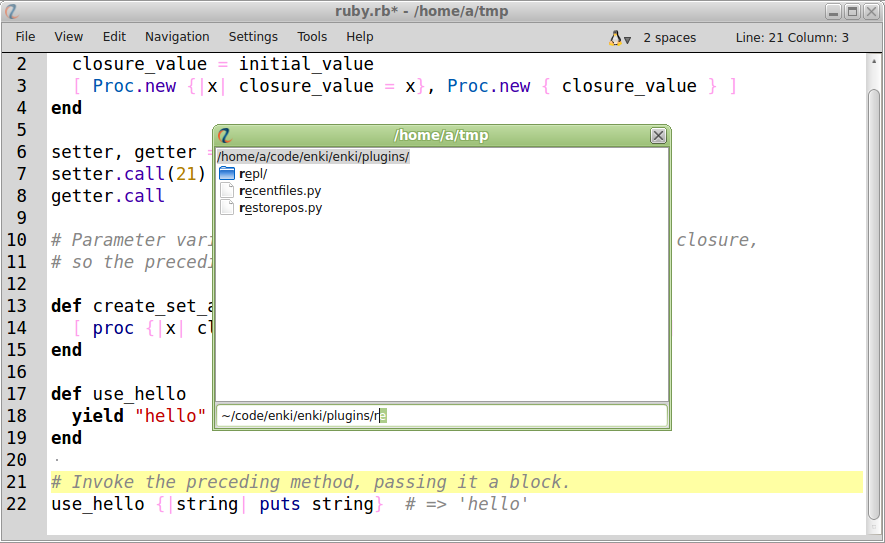
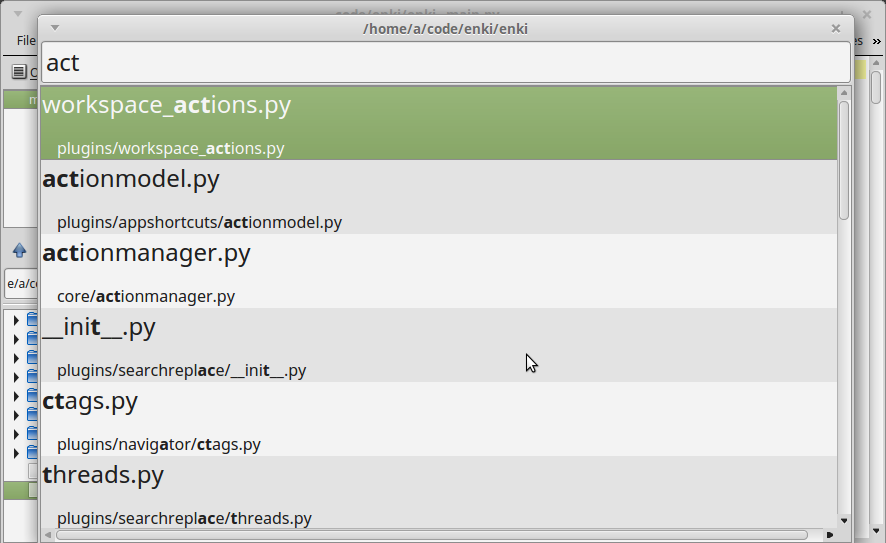
Fuzzy open

diff --git a/index.md b/index.md
@@ -136,9 +136,9 @@ baseurl: .
 
     <div class="screenshot-row">
         <div class="screenshot">
-            <a href="screenshots/locator.png" rel="lightbox[screenshots]" title="File open dialog with Bash-like tab completion">
+            <a href="screenshots/locator.png" rel="lightbox[screenshots]" title="Fuzzy file-matching and bash-like path completion">
                 <img src="screenshots/preview/locator.png" class="fancy-border" /></a><br />
-            File open dialog with bash-like Tab completion
+            Fuzzy file-matching and bash-like path completion
         </div>
         <div class="screenshot">
             <a href="screenshots/repl.png" rel="lightbox[screenshots]" title="REPL for Python, SML, Scheme">
@@ -149,7 +149,7 @@ baseurl: .
 
     <div class="screenshot-row">
         <div class="screenshot">
-            <a href="screenshots/pylint.png" rel="lightbox[screenshots]" title="Pylint support">
+            <a href="screenshots/pylint.png" rel="lightbox[screenshots]" title="Flake8 support">
                 <img src="screenshots/preview/pylint.png" class="fancy-border" /></a><br />
             Pylint support
         </div>

diff --git a/_posts/2015-12-02-Fuzzy_open.md b/_posts/2015-12-02-Fuzzy_open.md
@@ -1,0 +1,9 @@
+---
+layout: post
+title: Fuzzy open
+baseurl: ../../../
+---
+
+Now Enki suports one more quick way to open file! Try to press `Ctrl+L` in version 15.11.0 and you'll find that locator dialog became much better. Type a few letters and Enki will find a file you want in the project. To open project, just choose a path in File Browser or use Locator.
+
+<img src="../../../screenshots/locator.png"/>

diff --git a/features.md b/features.md
@@ -21,6 +21,7 @@ baseurl: .
  * File system tree browser
  * Class tree and Navigation in a file based on ctags
  * Locator. A File open dialog with bash-like Tab completion and glob support. Even better than bash!
+ * Fuzzy file opener
 
 ### REPL
 (Read, Eval, Print loop)
